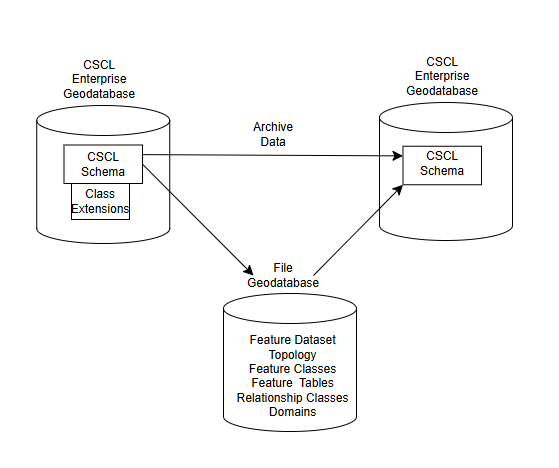
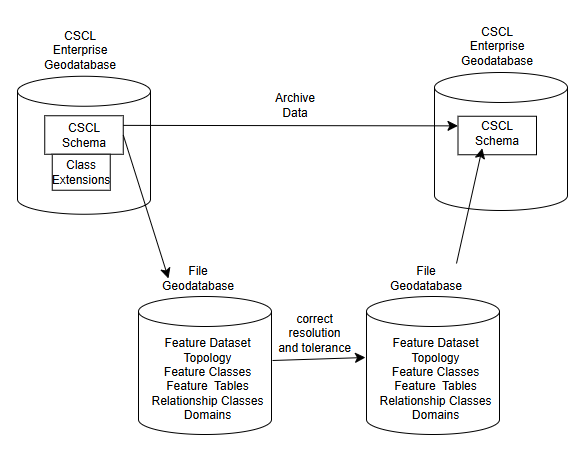
updates docs

diff --git a/doc/archive-migration.md b/doc/archive-migration.md
@@ -10,24 +10,7 @@ See the src/py/resources directory of this repo for lists of CSCL feature classe
 
 Objectid gets toasted on the target. Globalids will serve as a persistent unique identifier.
 
-```sql
-select 
-    distinct table_name 
-from 
-    user_tab_columns
-where 
-    not REGEXP_LIKE(table_name, '^[DFS][0-9]+$')
-    and table_name not like 'KEYSET%'
-    and table_name not like 'SDE%'
-    and table_name not like 'T_1%'
-minus
-select 
-    table_name 
-from 
-    user_tab_columns 
-where 
-    column_name = 'GLOBALID';
-```
+See src\sql\confirm-globalid.sql for helper sql.
 
 
 ### Migrate Archive Manual Steps

diff --git a/README.md b/README.md
@@ -6,7 +6,9 @@ The New York City Department of City Planning will produce the editing software 
 
 ### Overall Migration Plan
 
-For now see [doc/bigpicture.md](doc/bigpicture.md)
+Here's a picture of the big picture.
+
+![big picture](doc\bigpicture.png)
 
 ### 1. Extract and Prepare CSCL
 
